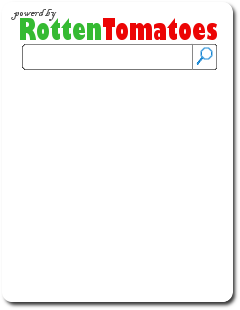
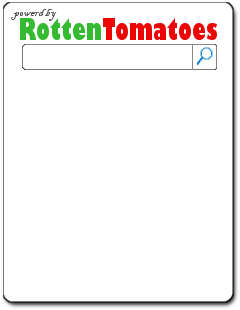
updated WebHelper
- added a stroke around the bg image
 - corrected a bug that was causing the
     helper to continuously pole the website

Changed region(s): [[0.0, 0.0, 0.9917, 0.9871]]

diff --git a/CherryTomatoWebHelpers/TomatoHelper.cs b/CherryTomatoWebHelpers/TomatoHelper.cs
@@ -38,20 +38,19 @@ public static class TomatoHelper
                 
                 return new HelperResult(w =>
                     {                        
-                        var grid = new WebGrid(movies, rowsPerPage: 5, canPage: false);
+                        var grid = new WebGrid(movies, canPage: false, canSort: false);
                         w.WriteLine("<form action='' method='post'>");
                         w.WriteLine("<div style='width: 242px;height:312px;background: url(\"" + url + "\") no-repeat'>");
-                        w.WriteLine("<input width='100' type='text' name='q' style='border: transparent; position: relative; top: 16%; left: 13%;' />");
-                        w.WriteLine("<input type='submit' name='btnSubmit' text='' style='width:25px; height: 25px; position: relative; top: 16%; left: 83%;");
-                        w.WriteLine("<div style='border-top: solid gray 1px; overflow: auto; height: 65%;position: relative; top: 20%; width: 220px; margin: 0 auto;'>");
+                        w.WriteLine("<input width='100' type='text' name='q' style='position: relative; top: 26px; left: 13%;' />");
+                        w.WriteLine("<input type='submit' value='' style='background-color: transparent;width:25px; height: 26px; position: relative; top: 26px; left: 35px;' />"); 
+                        w.WriteLine("<div style='border: solid gray 1px; overflow: auto; height: 65%;position: relative; top: 40px; width: 220px; margin: 0 15px 0 auto;'>");
                         
                         w.WriteLine( HttpUtility.HtmlDecode(
                             grid.GetHtml(
                                 tableStyle: "MovieSearchTable",
-                                rowStyle: "MovieSearchRow",
-                                alternatingRowStyle: "MovieSearchAlt",
+                                rowStyle: "MovieSearchRow",                         
                                 columns: grid.Columns(
-                                    grid.Column("Title", "Movie",
+                                    grid.Column("Title", "",
                                     format: (item) =>
                                         {
                                             return "<h4 style=\"color: red;margin: 0em; width: 15em;\">" +
@@ -74,8 +73,8 @@ public static class TomatoHelper
             {
                 w.WriteLine("<form action='' method='post'>");
                 w.WriteLine("<div style='width: 242px;height:312px;background: url(\"" + url + "\") no-repeat'>");
-                w.WriteLine("<input width='100' type='text' name='q' style='border: transparent;position: relative; top: 15%; left: 13%;' />");
-                w.WriteLine("<input type='submit' value='' style='background-color: transparent;width:25px; height: 26px; position: relative; top: 14%; left: 16%;"); 
+                w.WriteLine("<input width='100' type='text' name='q' style='position: relative; top: 26px; left: 13%;' />");
+                w.WriteLine("<input type='submit' value='' style='background-color: transparent;width:25px; height: 26px; position: relative; top: 26px; left: 35px;' />"); 
                 w.WriteLine("<div style='border-top: solid gray 1px; overflow: auto; height: 65%;position: relative; top: 20%; width: 220px; margin: .1em auto;'>");
                 w.WriteLine("No Data Found");
                 w.WriteLine("</div>");

diff --git a/RTomatoes.Net/JsonParser/RTomato.cs b/RTomatoes.Net/JsonParser/RTomato.cs
@@ -45,10 +45,16 @@ namespace RTomatoes.Net
             string url = string.Format(API_URLS.MOVIE_SEARCH, API_KEY, title, 50, index++);
             var results = JsonToObject<MoviesSearch>(url);
 
-            while (results.movies.Count < results.total)
+            while (true)
             {
                 url = string.Format(API_URLS.MOVIE_SEARCH, API_KEY, title, 50, index++);                
                 results.movies.AddRange(JsonToObject<MoviesSearch>(url).movies);
+
+                if (results.movies.Count >= 100
+                    || results.movies.Count >= results.total)
+                {
+                    break;
+                }
             }
 
             return results;
